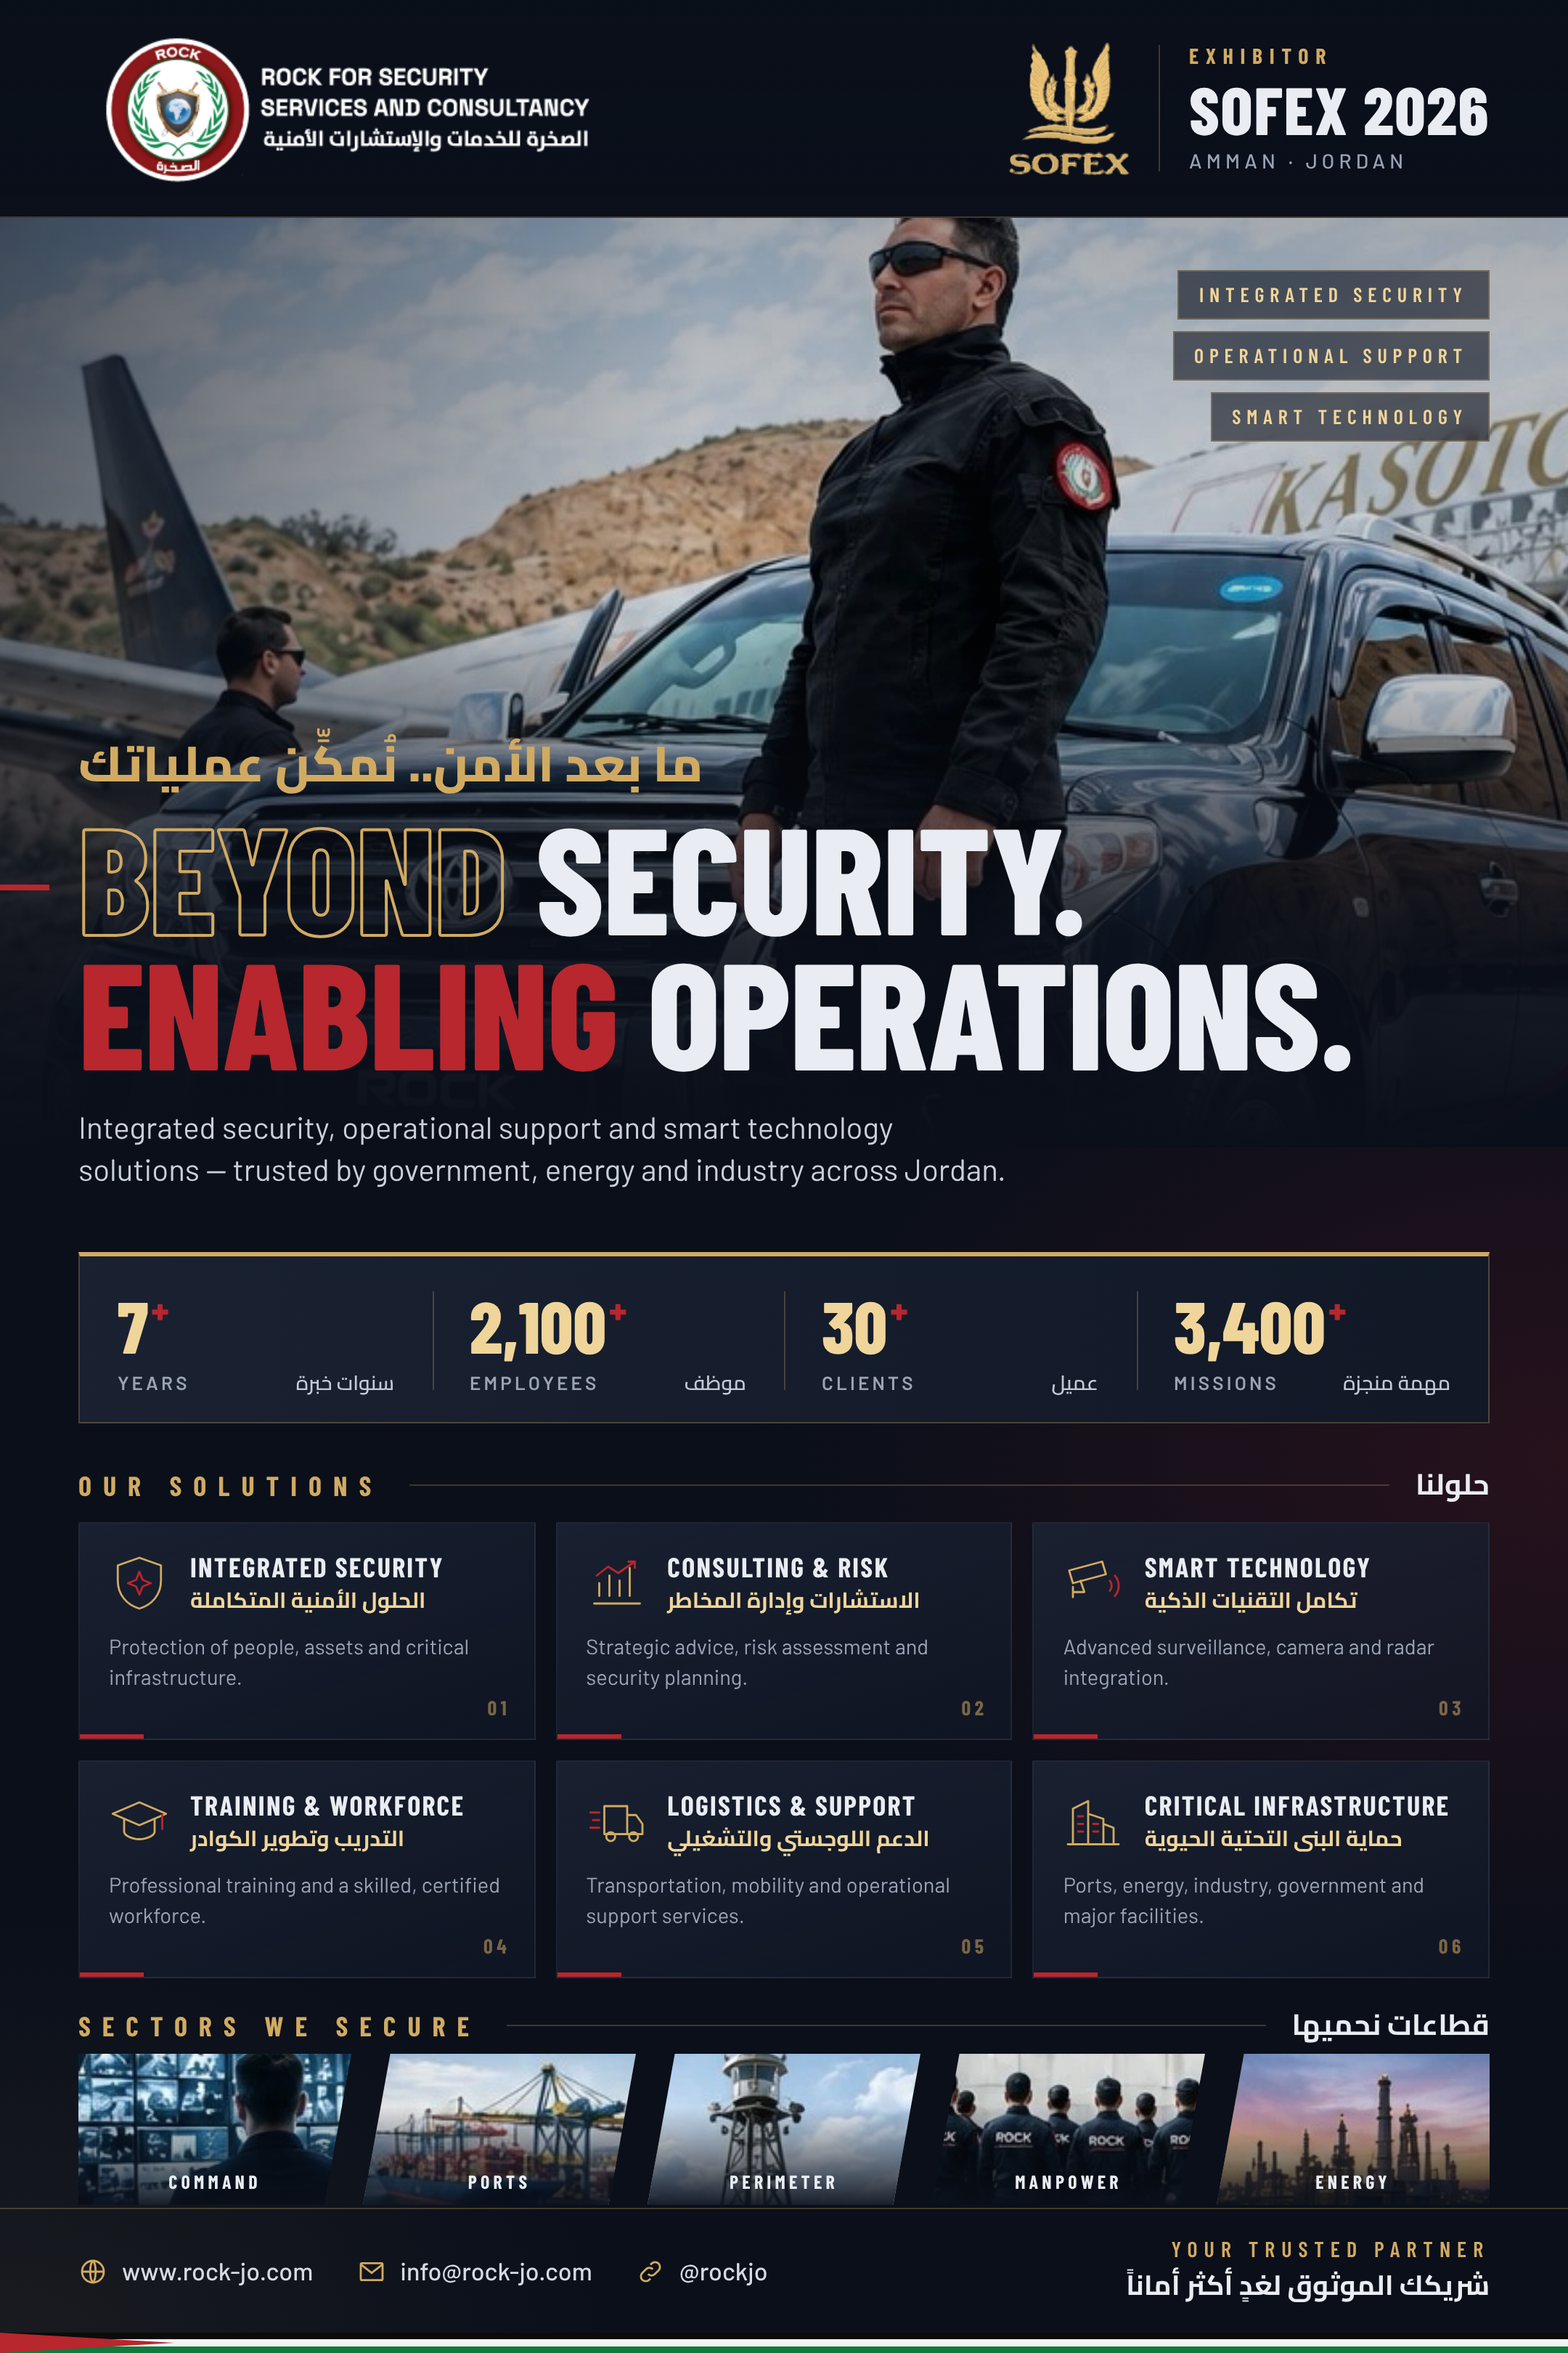
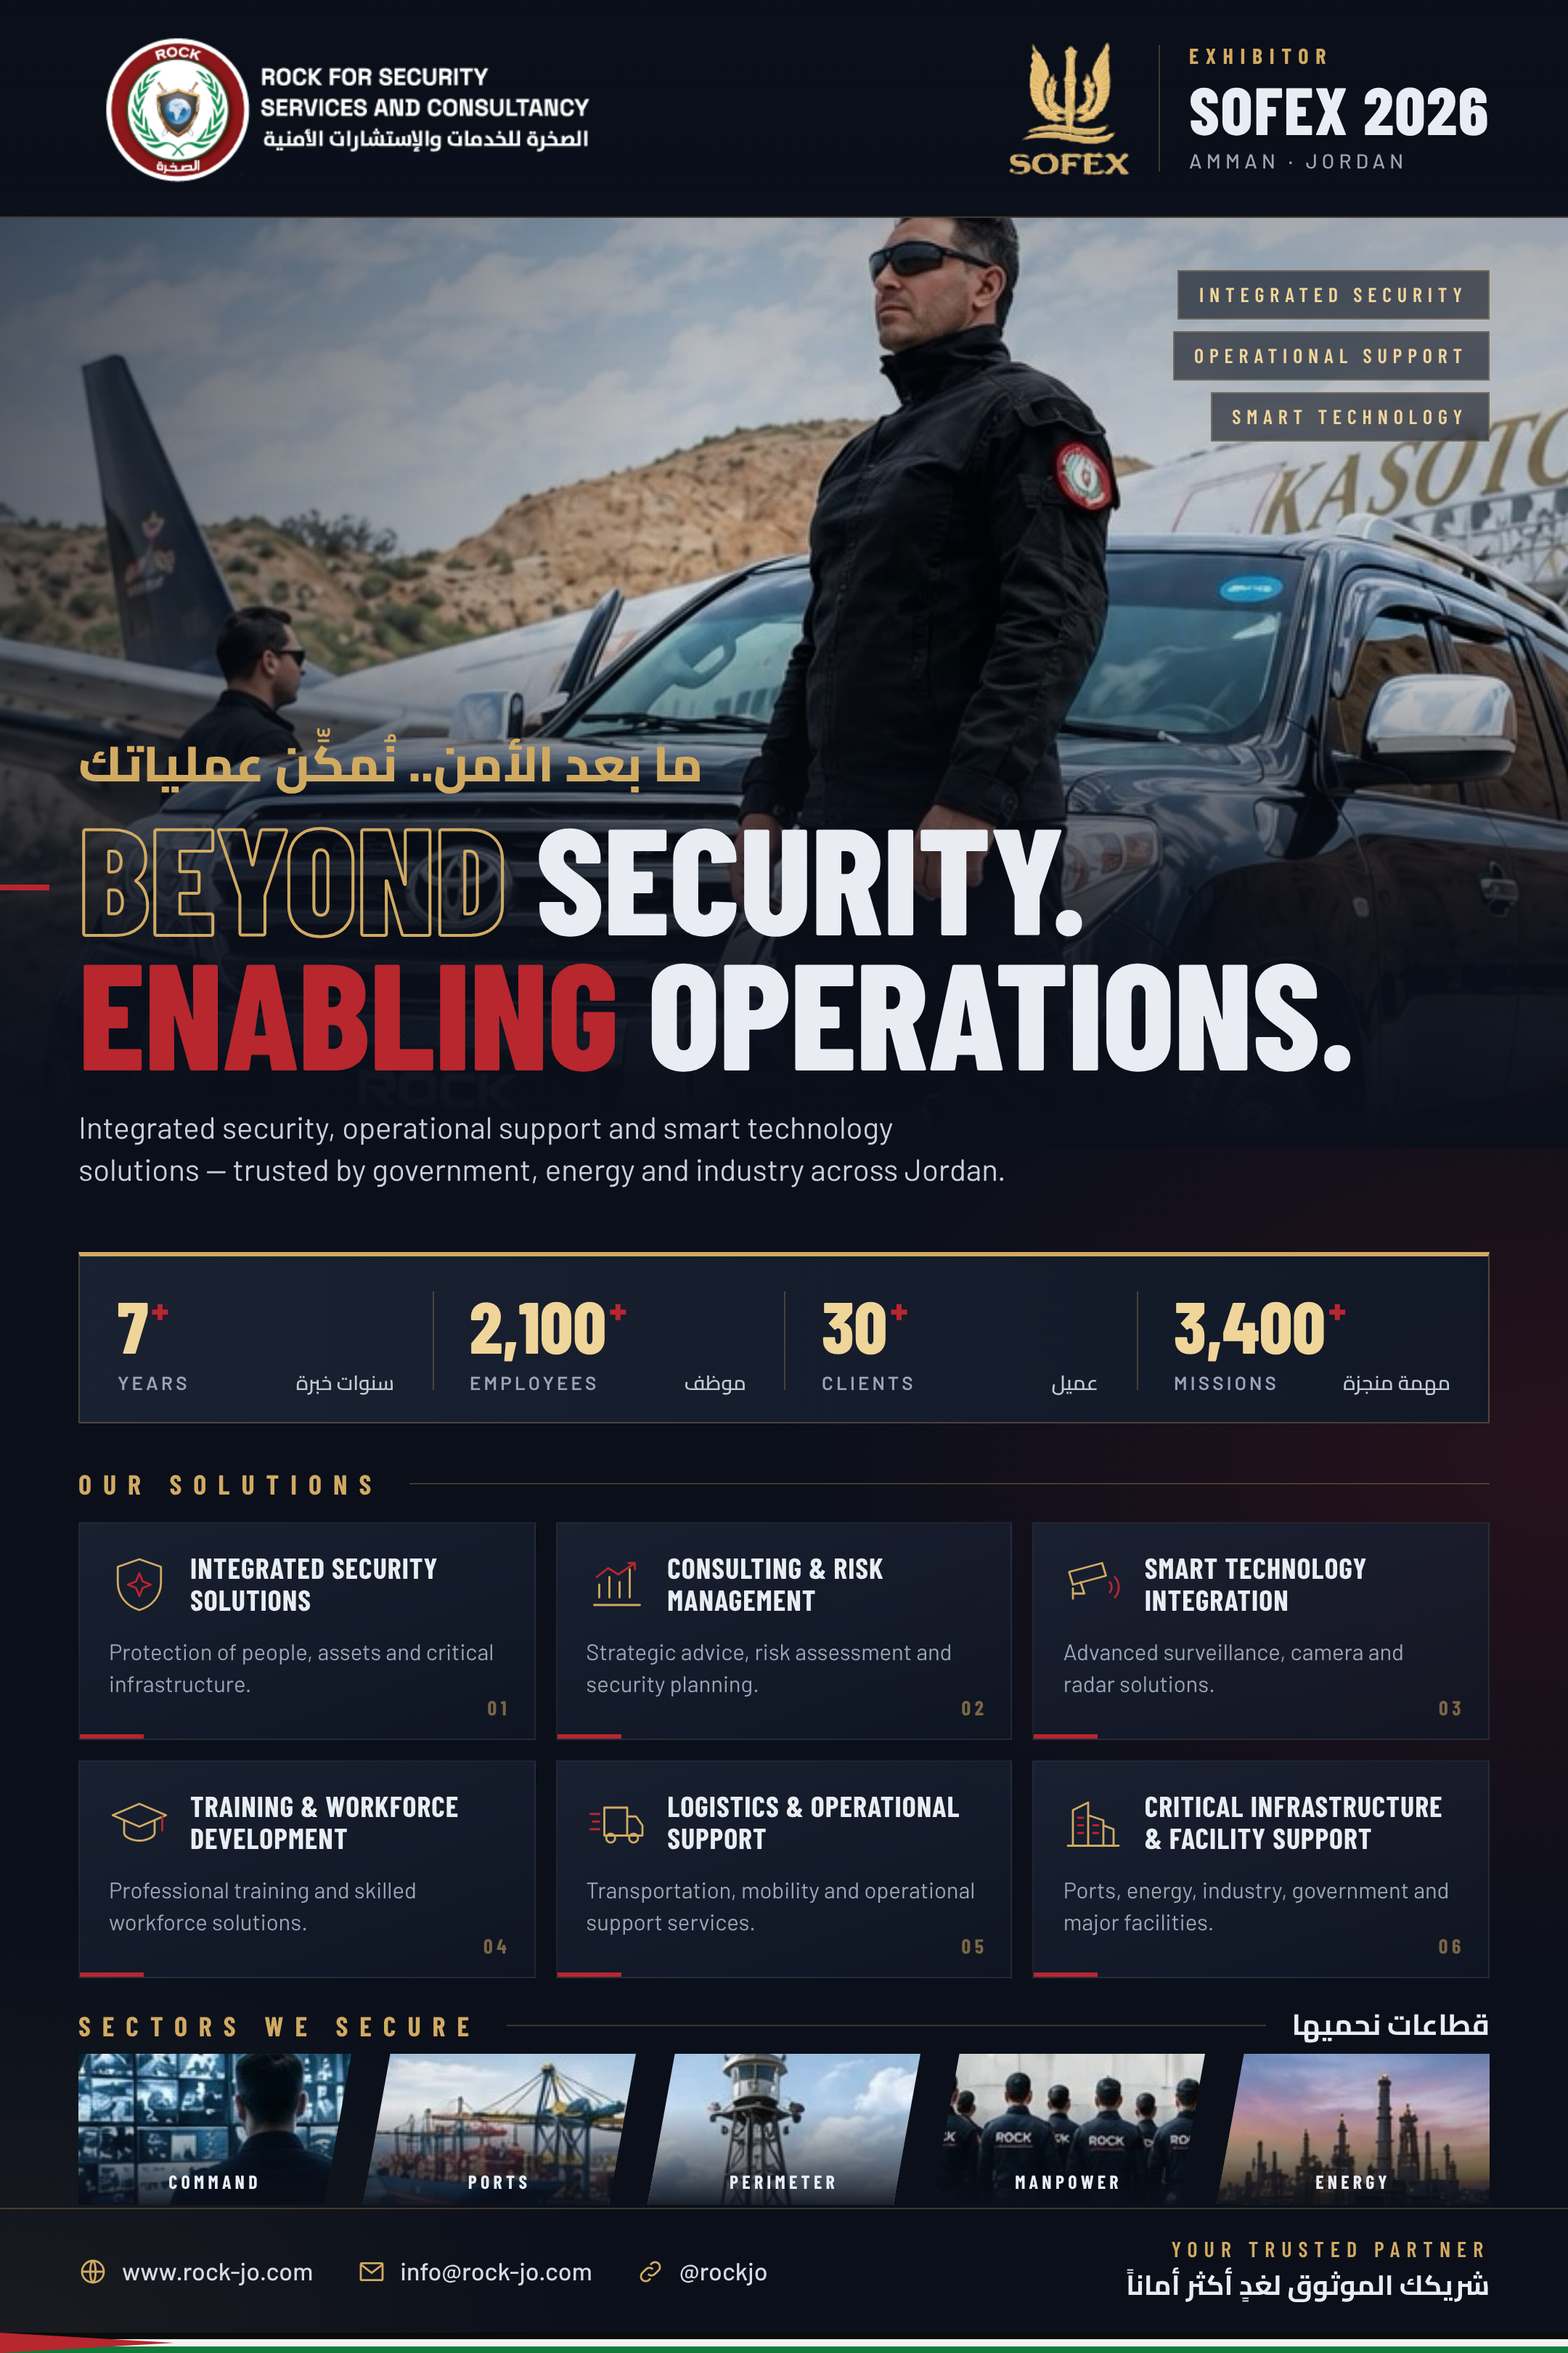
Use original English-only services content on poster
Claude-Session: https://claude.ai/code/session_01Aujy2QHcxaqkdffDCMkDu6

diff --git a/designs/rock-sofex-2026/poster.html b/designs/rock-sofex-2026/poster.html
@@ -95,9 +95,9 @@
   .card .top{display:flex;align-items:center;gap:14px}
   .card svg{width:42px;height:42px;flex:none;stroke:var(--gold);fill:none;stroke-width:1.6;stroke-linecap:round;stroke-linejoin:round}
   .card svg .r{stroke:var(--red)}
-  .card h3{font:700 19px/1.05 'Barlow Condensed';letter-spacing:.06em;text-transform:uppercase}
+  .card h3{font:700 20px/1.08 'Barlow Condensed';letter-spacing:.025em;text-transform:uppercase}
   .card h3 .ar{display:block;font:700 15px/1.3 'Cairo';color:var(--gold-2);letter-spacing:0;text-transform:none;text-align:left;margin-top:3px}
-  .card p{margin-top:12px;font:400 14.5px/1.42 'Barlow';color:var(--muted)}
+  .card p{margin-top:14px;font:400 15.5px/1.42 'Barlow';color:var(--muted)}
 
   /* ---------- sectors ---------- */
   .t2{top:1384px}
@@ -163,47 +163,47 @@
     <div class="stat"><div class="n">3,400<sup>+</sup></div><div class="l"><span>Missions</span><span class="ar">مهمة منجزة</span></div></div>
   </div>
 
-  <div class="sec-title t1"><h2>Our Solutions</h2><div class="bar"></div><div class="ar">حلولنا</div></div>
+  <div class="sec-title t1"><h2>Our Solutions</h2><div class="bar"></div></div>
   <div class="grid">
     <div class="card"><span class="num">01</span>
       <div class="top">
         <svg viewBox="0 0 48 48"><path d="M24 4 7 10v12c0 11 7 19 17 22 10-3 17-11 17-22V10z"/><path class="r" d="m24 15 2.6 6.4L33 24l-6.4 2.6L24 33l-2.6-6.4L15 24l6.4-2.6z"/></svg>
-        <h3>Integrated Security<span class="ar">الحلول الأمنية المتكاملة</span></h3>
+        <h3>Integrated Security Solutions</h3>
       </div>
       <p>Protection of people, assets and critical infrastructure.</p>
     </div>
     <div class="card"><span class="num">02</span>
       <div class="top">
         <svg viewBox="0 0 48 48"><path d="M6 40h36"/><path d="M10 34V24M18 34V18M26 34V22M34 34V12"/><path class="r" d="m8 18 9-7 8 5 13-9M33 7h5v5"/></svg>
-        <h3>Consulting &amp; Risk<span class="ar">الاستشارات وإدارة المخاطر</span></h3>
+        <h3>Consulting &amp; Risk Management</h3>
       </div>
       <p>Strategic advice, risk assessment and security planning.</p>
     </div>
     <div class="card"><span class="num">03</span>
       <div class="top">
         <svg viewBox="0 0 48 48"><path d="M5 14 31 7l3 10-26 7z"/><path d="M14 22l3 9H8M8 27v8"/><path class="r" d="M37 22a6 6 0 0 1 0 8M41 18a12 12 0 0 1 0 16"/></svg>
-        <h3>Smart Technology<span class="ar">تكامل التقنيات الذكية</span></h3>
+        <h3>Smart Technology Integration</h3>
       </div>
-      <p>Advanced surveillance, camera and radar integration.</p>
+      <p>Advanced surveillance, camera and radar solutions.</p>
     </div>
     <div class="card"><span class="num">04</span>
       <div class="top">
         <svg viewBox="0 0 48 48"><path d="M3 18 24 9l21 9-21 9z"/><path d="M12 22v10c0 3 6 6 12 6s12-3 12-6V22"/><path class="r" d="M42 19v11"/></svg>
-        <h3>Training &amp; Workforce<span class="ar">التدريب وتطوير الكوادر</span></h3>
+        <h3>Training &amp; Workforce Development</h3>
       </div>
-      <p>Professional training and a skilled, certified workforce.</p>
+      <p>Professional training and skilled workforce solutions.</p>
     </div>
     <div class="card"><span class="num">05</span>
       <div class="top">
         <svg viewBox="0 0 48 48"><path d="M14 12h18v22H14zM32 19h7l5 7v8H32"/><circle cx="19" cy="36" r="3.5"/><circle cx="37" cy="36" r="3.5"/><path class="r" d="M3 17h7M5 23h5M3 29h7"/></svg>
-        <h3>Logistics &amp; Support<span class="ar">الدعم اللوجستي والتشغيلي</span></h3>
+        <h3>Logistics &amp; Operational Support</h3>
       </div>
       <p>Transportation, mobility and operational support services.</p>
     </div>
     <div class="card"><span class="num">06</span>
       <div class="top">
         <svg viewBox="0 0 48 48"><path d="M8 42V14l12-6v34M20 42V18l12 4v20M32 42V26l8 3v13M4 42h40"/><path class="r" d="M12 20h4M12 26h4M12 32h4M24 26h4M24 32h4"/></svg>
-        <h3>Critical Infrastructure<span class="ar">حماية البنى التحتية الحيوية</span></h3>
+        <h3>Critical Infrastructure<br>&amp; Facility Support</h3>
       </div>
       <p>Ports, energy, industry, government and major facilities.</p>
     </div>
